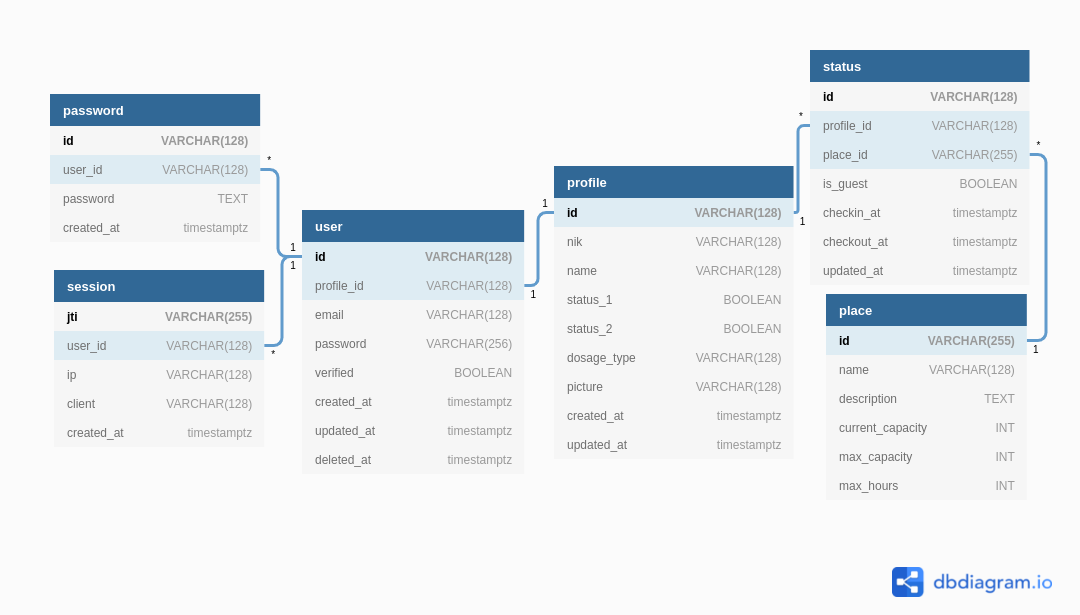
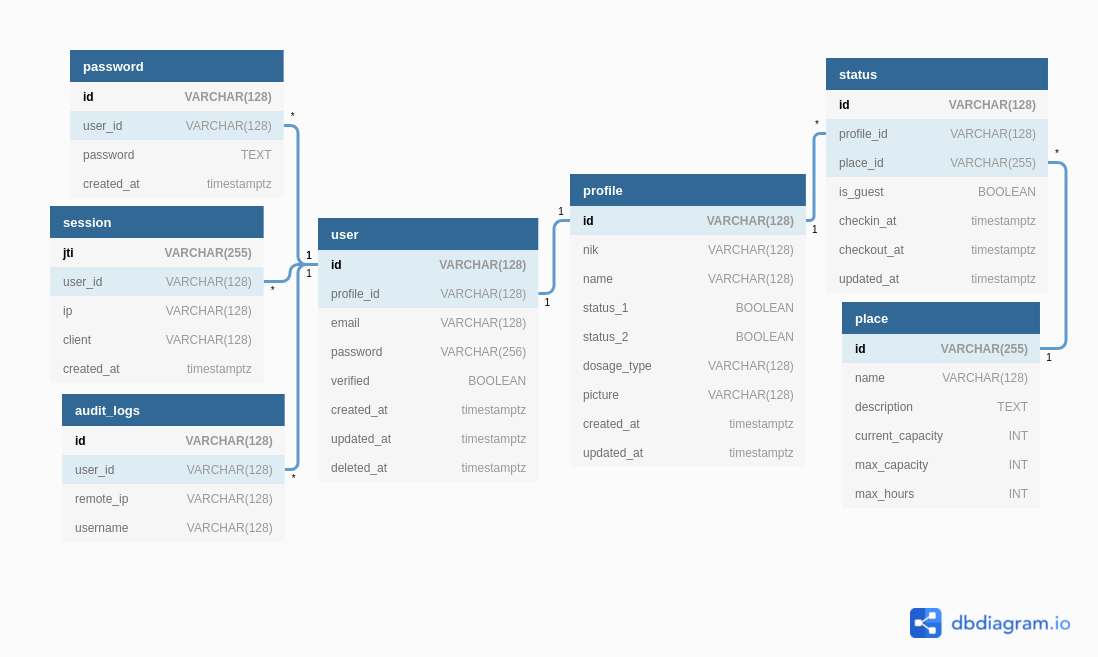
add singleton for kafka producer

diff --git a/userland/pkg/kafka/kafka.go b/userland/pkg/kafka/kafka.go
@@ -12,34 +12,38 @@ type Kafka interface {
 }
 
 type KafkaConfluentinc struct {
-	Config *kafka.ConfigMap
+	Config   *kafka.ConfigMap
+	Producer *kafka.Producer
 }
 
-func NewKafka() Kafka {
-	return &KafkaConfluentinc{
-		Config: &kafka.ConfigMap{
-			"bootstrap.servers": fmt.Sprintf("%s:%s", os.Getenv("KAFKA_HOST"), os.Getenv("KAFKA_PORT")),
-		},
+func NewKafka() (Kafka, error) {
+	config := &kafka.ConfigMap{
+		"bootstrap.servers": fmt.Sprintf("%s:%s", os.Getenv("KAFKA_HOST"), os.Getenv("KAFKA_PORT")),
 	}
+
+	producer, err := kafka.NewProducer(config)
+	if err != nil {
+		return nil, err
+	}
+
+	return &KafkaConfluentinc{
+		Config:   config,
+		Producer: producer,
+	}, nil
 }
 
 func (k *KafkaConfluentinc) SendMessage(topic string, message []byte) error {
-	producer, err := kafka.NewProducer(k.Config)
-	if err != nil {
-		return err
-	}
-
-	defer producer.Close()
-
-	err = producer.Produce(&kafka.Message{
+	err := k.Producer.Produce(&kafka.Message{
 		TopicPartition: kafka.TopicPartition{Topic: &topic, Partition: kafka.PartitionAny},
 		Value:          message,
 	}, nil)
 
-	go deliver(producer)
+	go deliver(k.Producer)
 
 	// Wait for message deliveries before shutting down
-	producer.Flush(15 * 1000)
+	// defer k.Producer.Close()
+
+	k.Producer.Flush(15 * 1000)
 
 	return err
 }

diff --git a/userland/internal/usecase/auth/login.go b/userland/internal/usecase/auth/login.go
@@ -6,7 +6,6 @@ import (
 
 	"github.com/aemiralfath/IH-Userland-Onboard/userland/internal/model"
 	"github.com/aemiralfath/IH-Userland-Onboard/userland/pkg/jwt"
-	"github.com/aemiralfath/IH-Userland-Onboard/userland/pkg/kafka"
 	"github.com/aemiralfath/IH-Userland-Onboard/userland/pkg/myerror"
 	"github.com/rs/zerolog/log"
 )
@@ -33,7 +32,7 @@ func (u *UsecaseAuth) Login(ctx context.Context, ip, clientName string, body mod
 		"userid":    user.ID,
 	})
 
-	if err := kafka.NewKafka().SendMessage(topic, message); err != nil {
+	if err := u.kafka.SendMessage(topic, message); err != nil {
 		log.Error().Err(err).Stack().Msg(err.Error())
 		return result, myerror.New("Error create kafka message.", "AUTH-USC-04")
 	}

diff --git a/userland/internal/usecase/auth/init.go b/userland/internal/usecase/auth/init.go
@@ -5,6 +5,7 @@ import (
 
 	"github.com/aemiralfath/IH-Userland-Onboard/userland/internal/model"
 	"github.com/aemiralfath/IH-Userland-Onboard/userland/internal/model/entity"
+	"github.com/aemiralfath/IH-Userland-Onboard/userland/pkg/kafka"
 )
 
 type authRepo interface {
@@ -16,11 +17,18 @@ type authRepo interface {
 }
 
 type UsecaseAuth struct {
-	auth authRepo
+	auth  authRepo
+	kafka kafka.Kafka
 }
 
-func New(repo authRepo) *UsecaseAuth {
-	return &UsecaseAuth{
-		auth: repo,
+func New(repo authRepo) (*UsecaseAuth, error) {
+	kafka, err := kafka.NewKafka()
+	if err != nil {
+		return &UsecaseAuth{}, err
 	}
+
+	return &UsecaseAuth{
+		auth:  repo,
+		kafka: kafka,
+	}, nil
 }

diff --git a/userland/internal/app/delivery.go b/userland/internal/app/delivery.go
@@ -17,12 +17,16 @@ type delivery struct {
 	me      *me.DeliveryMe
 }
 
-func initDelivery(db *sql.DB, redis *redis.Client) delivery {
-	u := initUseCase(db, redis)
+func initDelivery(db *sql.DB, redis *redis.Client) (delivery, error) {
+	u, err := initUseCase(db, redis)
+	if err != nil {
+		return delivery{}, err
+	}
+
 	return delivery{
 		status:  status.NewStatus(u.status),
 		auth:    auth.NewAuth(u.auth),
 		session: session.NewSession(u.session),
 		me:      me.NewMe(u.me),
-	}
+	}, nil
 }

diff --git a/userland/internal/app/usecase.go b/userland/internal/app/usecase.go
@@ -17,12 +17,17 @@ type usecase struct {
 	me      *me.UsecaseMe
 }
 
-func initUseCase(db *sql.DB, redis *redis.Client) *usecase {
+func initUseCase(db *sql.DB, redis *redis.Client) (*usecase, error) {
 	r := initRepository(db, redis)
+	auth, err := auth.New(r.auth)
+	if err != nil {
+		return &usecase{}, err
+	}
+
 	return &usecase{
 		status:  status.New(r.status),
-		auth:    auth.New(r.auth),
+		auth:    auth,
 		session: session.New(r.session),
 		me:      me.New(r.me),
-	}
+	}, nil
 }

diff --git a/userland/internal/delivery/auth/register.go b/userland/internal/delivery/auth/register.go
@@ -41,7 +41,7 @@ func (d *DeliveryAuth) Register(w http.ResponseWriter, r *http.Request) {
 		return
 	}
 
-	res, err := d.auth.Register(ctx, body)
+	_, err := d.auth.Register(ctx, body)
 	if err != nil {
 		e, ok := err.(*myerror.Error)
 		if !ok {
@@ -52,5 +52,5 @@ func (d *DeliveryAuth) Register(w http.ResponseWriter, r *http.Request) {
 		return
 	}
 
-	response.Write(w, http.StatusOK, "success", res, "")
+	response.Write(w, http.StatusOK, "success", nil, "")
 }

diff --git a/userland/internal/app/init.go b/userland/internal/app/init.go
@@ -59,7 +59,10 @@ func New(serverCfg AppConfig, postgresCfg postgres.PostgresConfig, redisCfg myre
 
 func (app *App) createHandlers() http.Handler {
 	r := chi.NewRouter()
-	d := initDelivery(app.DB, app.Redis)
+	d, err := initDelivery(app.DB, app.Redis)
+	if err != nil {
+		log.Error().Err(err).Stack().Msg("failed to connect to kafka")
+	}
 
 	r.Use(cors.Handler(cors.Options{
 		AllowedOrigins:   []string{"https://*", "http://*"},

diff --git a/README.md b/README.md
@@ -163,7 +163,7 @@ Table status {
   id VARCHAR(128) [pk]
   profile_id VARCHAR(128) [ref: > profile.id]
   place_id VARCHAR(255) [ref: > place.id]
-is_guest BOOLEAN
+  is_guest BOOLEAN
   checkin_at timestamptz
   checkout_at timestamptz
   updated_at timestamptz
@@ -191,6 +191,17 @@ Table session {
   ip VARCHAR(128)
   client VARCHAR(128)
   created_at timestamptz
+  
+  indexes{
+    user_id
+  }
+}
+
+Table audit_logs {
+  id VARCHAR(128) [pk]
+  user_id VARCHAR(128) [ref: > user.id]
+  remote_ip VARCHAR(128)
+  username VARCHAR(128)
   
   indexes{
     user_id
